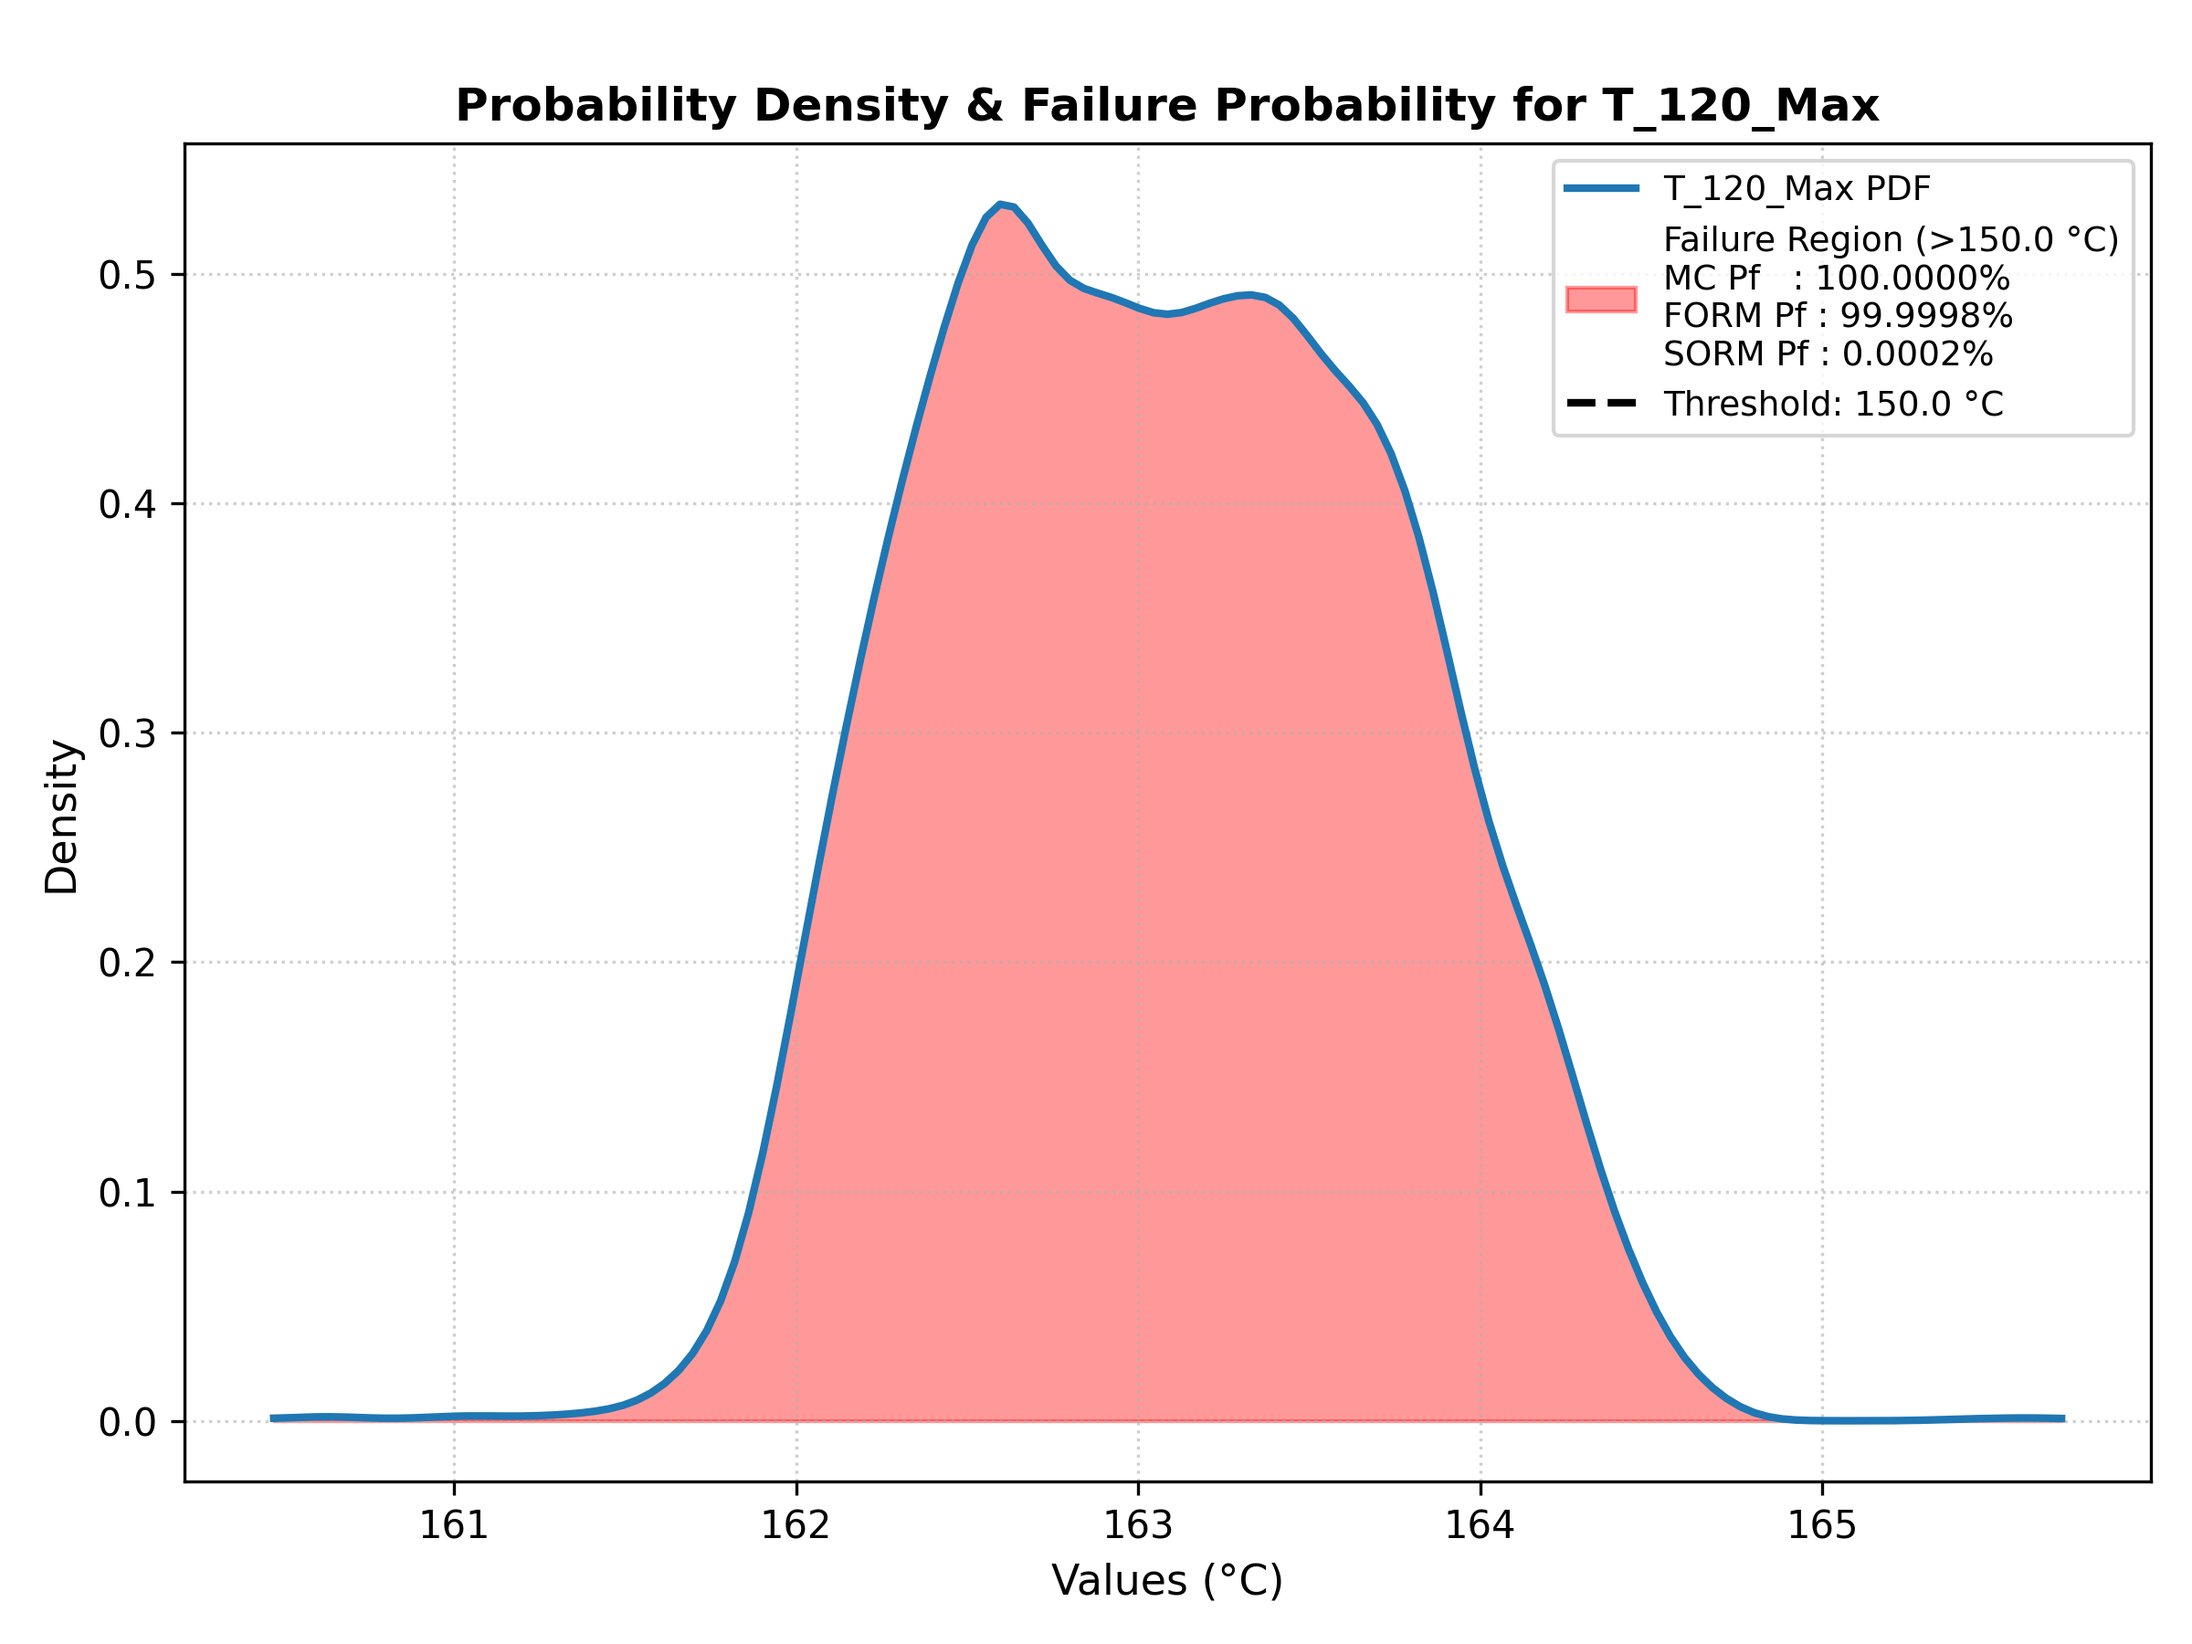
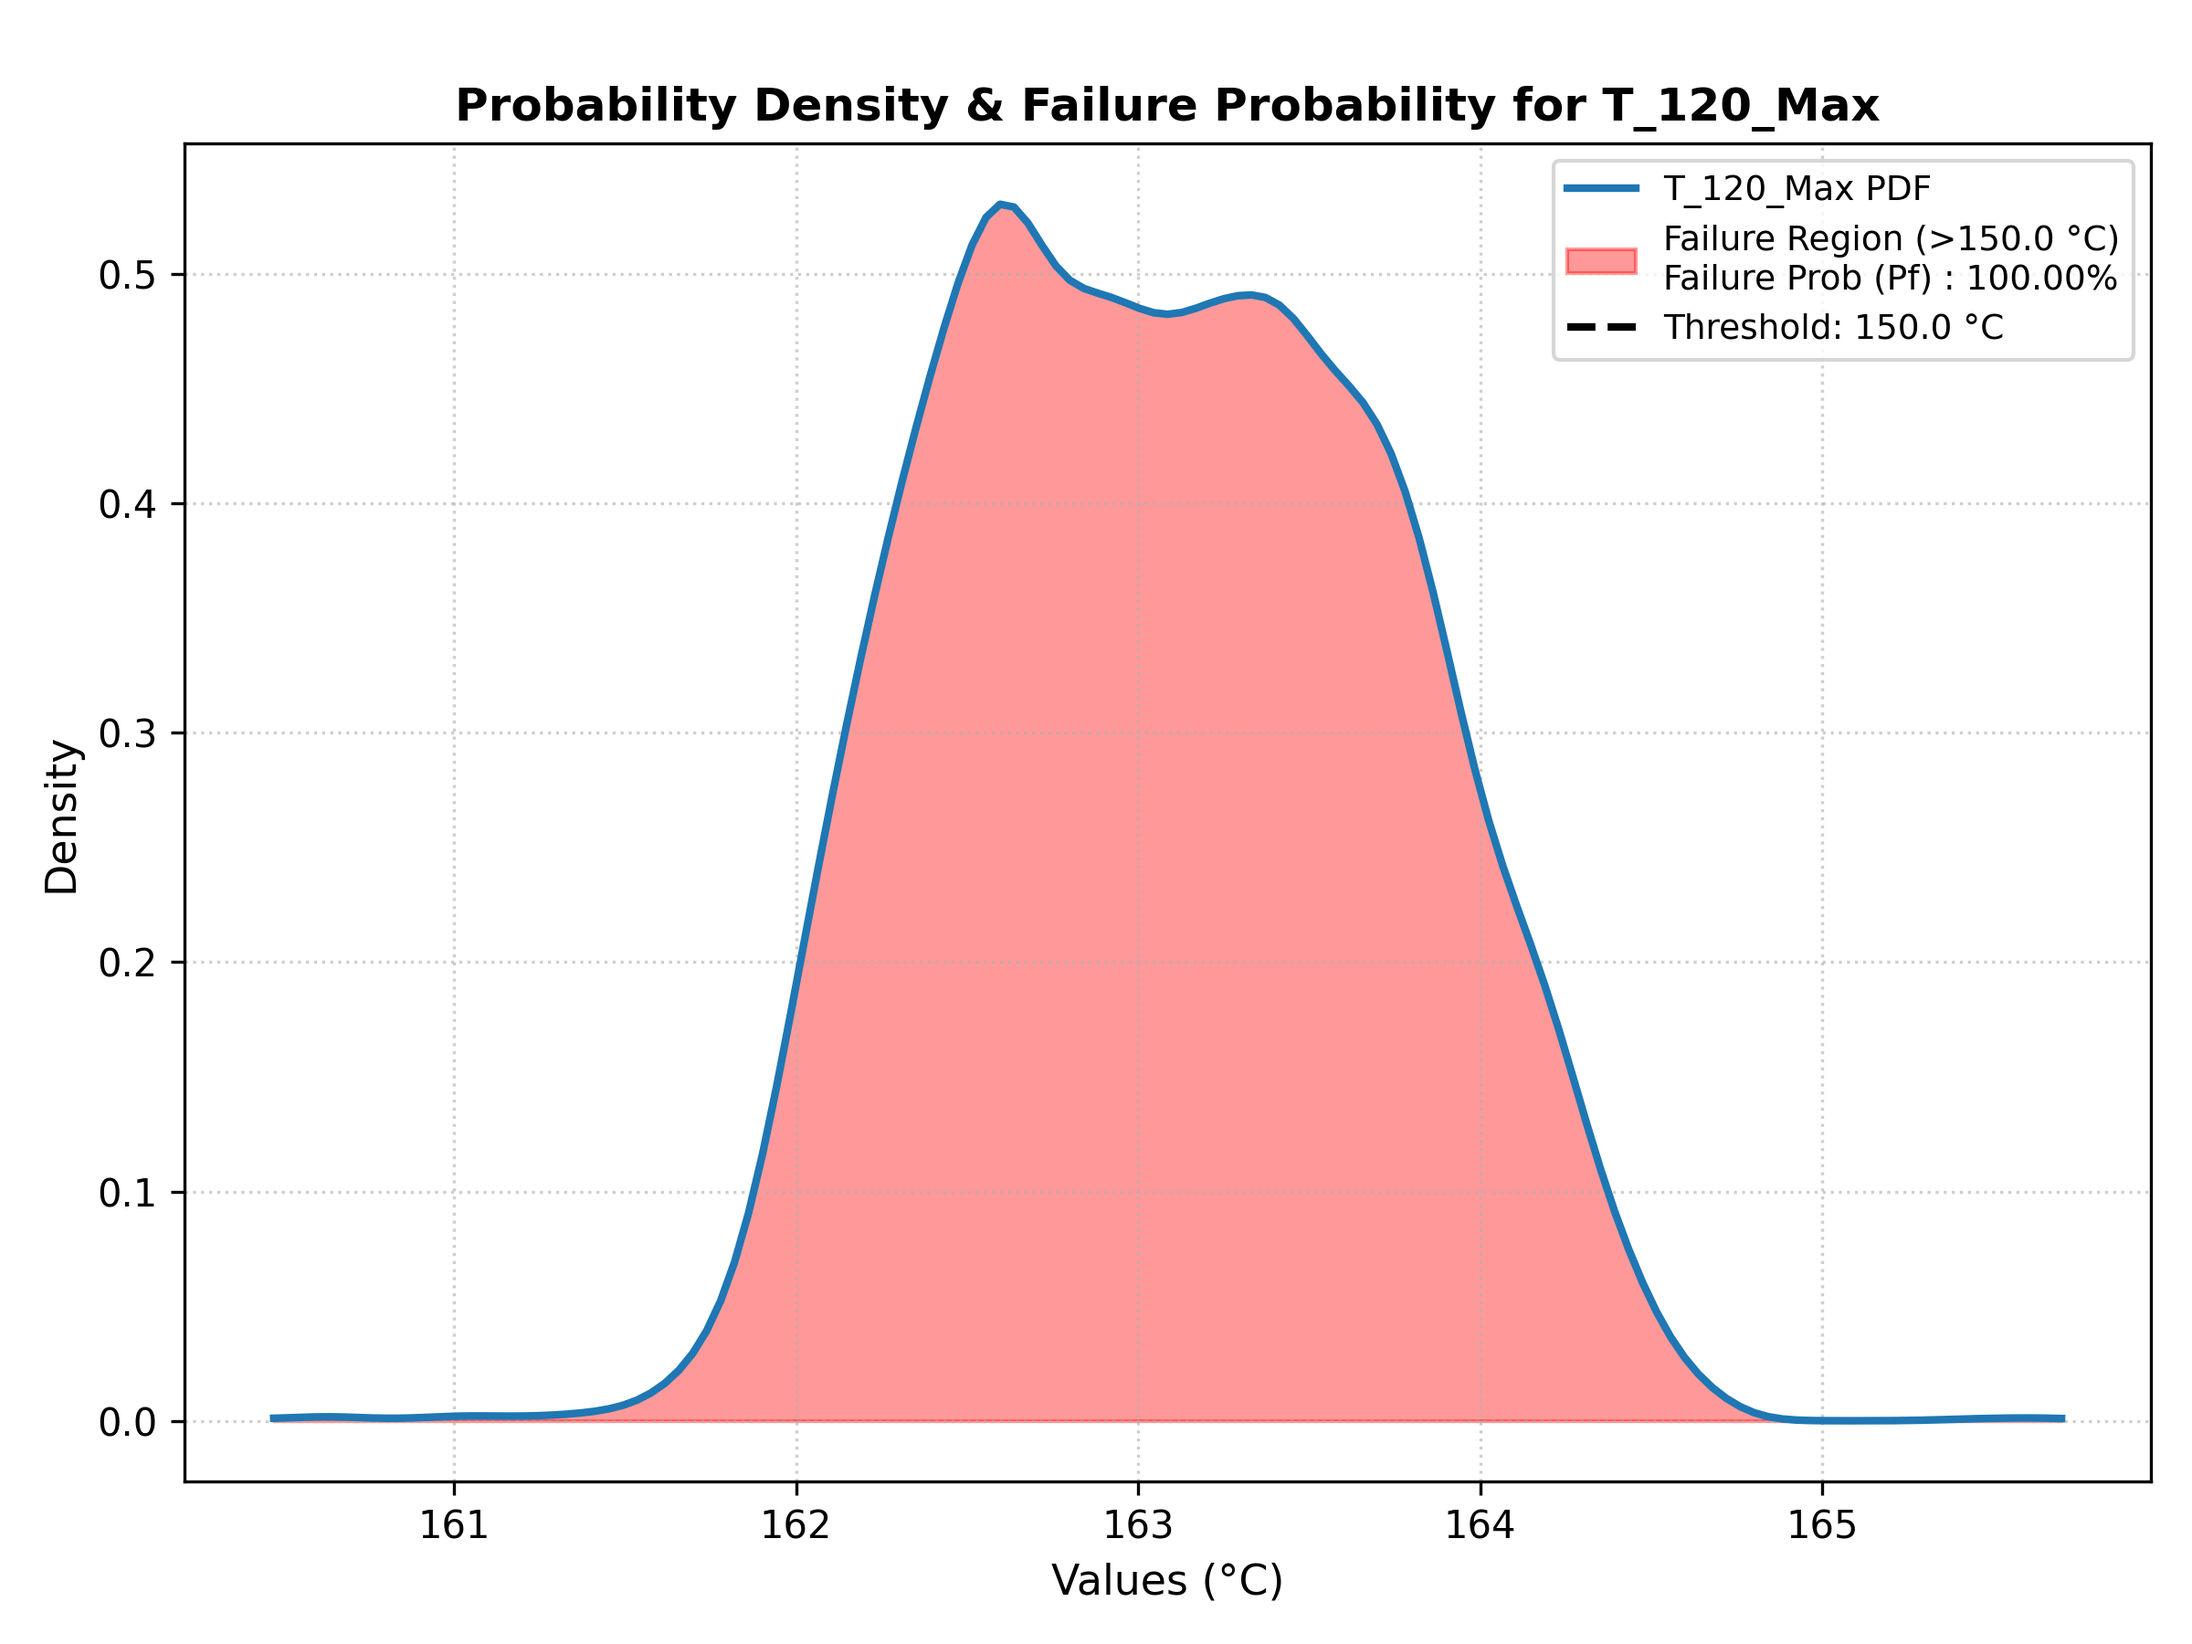
remove forms sorms

Changed region(s): [[0.6875, 0.1244, 0.9688, 0.28]]

diff --git a/04.OpenTURNS/Test_02/[p2]_openturns.py b/04.OpenTURNS/Test_02/[p2]_openturns.py
@@ -267,45 +267,11 @@ for target_name in output_names:
     mc_algo.run()
     pf_mc = mc_algo.getResult().getProbabilityEstimate()
 
-    # --- 2. TÍNH BẰNG FORM ---
-    print("   [Đang tính bằng FORM...]")
-    starting_point = my_distribution.getMean()
-    solver = ot.Cobyla()
-    pf_form = 0.0 # Giá trị mặc định nếu FORM thất bại
-    try:
-        algo_FORM = ot.FORM(solver, event, my_distribution.getMean())
-        algo_FORM.run()
-        pf_form = algo_FORM.getResult().getEventProbability()
-    except Exception as e:
-        print(f"   [CẢNH BÁO FORM] Thuật toán FORM không hội tụ. Lý do: Xác suất xảy ra quá thấp (hầu như bằng 0) hoặc bề mặt quá phức tạp. Bỏ qua FORM cho biến này.")
-        pf_form = 0.0 # Đặt xác suất = 0
-
-    # --- 3. TÍNH BẰNG SORM ---
-    print("   [Đang tính bằng SORM...]")
-    pf_sorm = None
-    try:
-        # SORM lấy kết quả từ FORM làm điểm khởi đầu (Design Point)
-        algo_SORM = ot.SORM(solver, event, starting_point)
-        algo_SORM.run()
-        result_SORM = algo_SORM.getResult()
-        
-        # Sử dụng phương pháp Hohenbichler cho SORM
-        beta_sorm_hohen = result_SORM.getGeneralisedReliabilityIndexHohenbichler()
-        dist_norm = ot.Normal()
-        pf_sorm = dist_norm.computeComplementaryCDF(beta_sorm_hohen)
-    except Exception as e:
-        print(f"      [LỖI SORM] Bề mặt có thể quá gồ ghề: {e}")
-
     # In kết quả tổng hợp ra terminal
     print(f"=========================================================")
     print(f" RELIABILITY ANALYSIS RESULTS")
     print(f" Threshold: {CURRENT_THRESHOLD} {unit}")
     print(f" Monte Carlo Pf : {pf_mc * 100:.4f} %")
-    print(f" FORM Pf        : {pf_form * 100:.4f} %")
-    if pf_sorm is not None:
-        print(f" SORM Pf        : {pf_sorm * 100:.4f} %")
-    else:
-        print(f" SORM Pf        : N/A")
     print(f"=========================================================")
 
     # =========================================================
@@ -329,17 +295,18 @@ for target_name in output_names:
     
     # Tạo nội dung chú thích cho vùng phá hủy
     legend_text = (f'Failure Region (>{CURRENT_THRESHOLD} {unit})\n'
-                   f'MC Pf   : {pf_mc*100:.4f}%\n'
-                   f'FORM Pf : {pf_form*100:.4f}%')
-    if pf_sorm is not None:
-        legend_text += f'\nSORM Pf : {pf_sorm*100:.4f}%'
-        
+                   f'Failure Prob (Pf) : {pf_mc * 100:.2f}%')
+    # Tô màu đỏ cho vùng phá hủy    
     ax2.fill_between(x_tail, y_tail, color='red', alpha=0.4, label=legend_text)
+    # Vẽ đường thẳng đứt nét ngay tại vị trí Threshold
     ax2.axvline(x=CURRENT_THRESHOLD, color='black', linestyle='--', linewidth=2, label=f'Threshold: {CURRENT_THRESHOLD} {unit}')
     
+    # Trang trí đồ thị
     ax2.set_title(f'Probability Density & Failure Probability for {target_name}', fontsize=12, fontweight='bold')
     ax2.set_xlabel(f'Values ({unit})', fontsize=11)
     ax2.set_ylabel('Density', fontsize=11)
+
+    # Hiển thị Legend gọn gàng
     ax2.legend(loc='upper right', fontsize=9)
     ax2.grid(True, linestyle=':', alpha=0.6)
     
